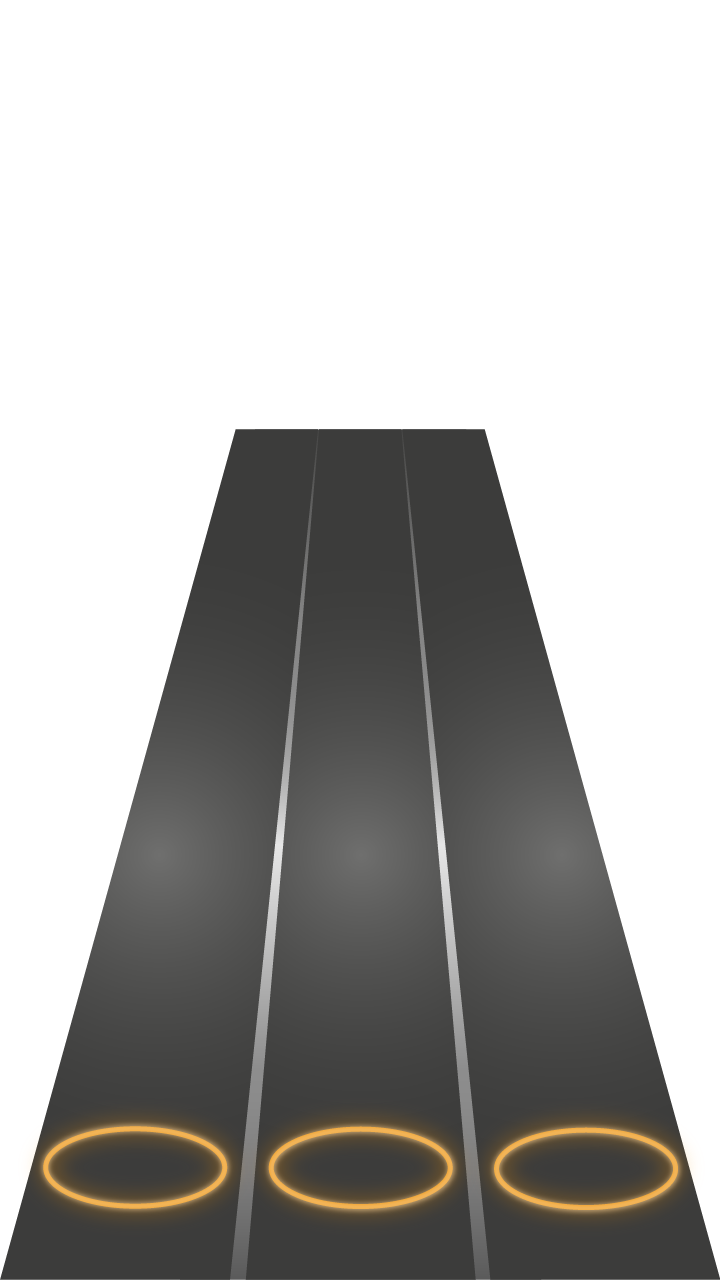
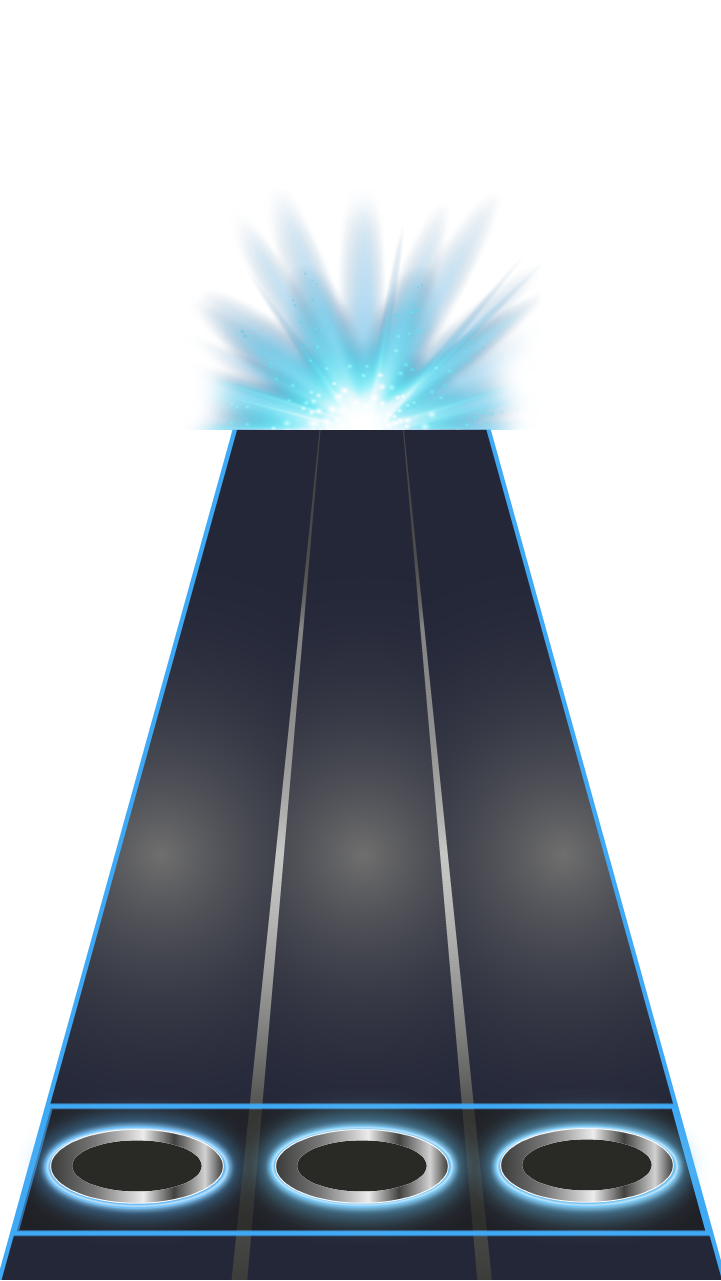
1. Rebranding

diff --git a/src/scenes/preloader.js b/src/scenes/preloader.js
@@ -7,8 +7,9 @@ export class Preloader extends Phaser.Scene {
     preload ()
     {
         this.load.setPath('public/assets');
-        this.load.image('notes', '/notes/notes.png');
+        this.load.spritesheet('notes', '/notes/notes.png', { frameWidth: 199, frameHeight: 103 });
         this.load.image('neck', '/neck/neck.png');
+        this.load.image('bg', '/bg.png');
 
     }
 

diff --git a/src/scenes/game.js b/src/scenes/game.js
@@ -32,6 +32,7 @@ export class Game extends Phaser.Scene {
     }
 
     create(){
+        this.add.image((this.width/2), (this.height/2), 'bg');
         this.add.image((this.width/2), (this.height/2), 'neck');
 
         let positions = [((this.width/2) - 226), (this.width/2), ((this.width/2) + 226)];
